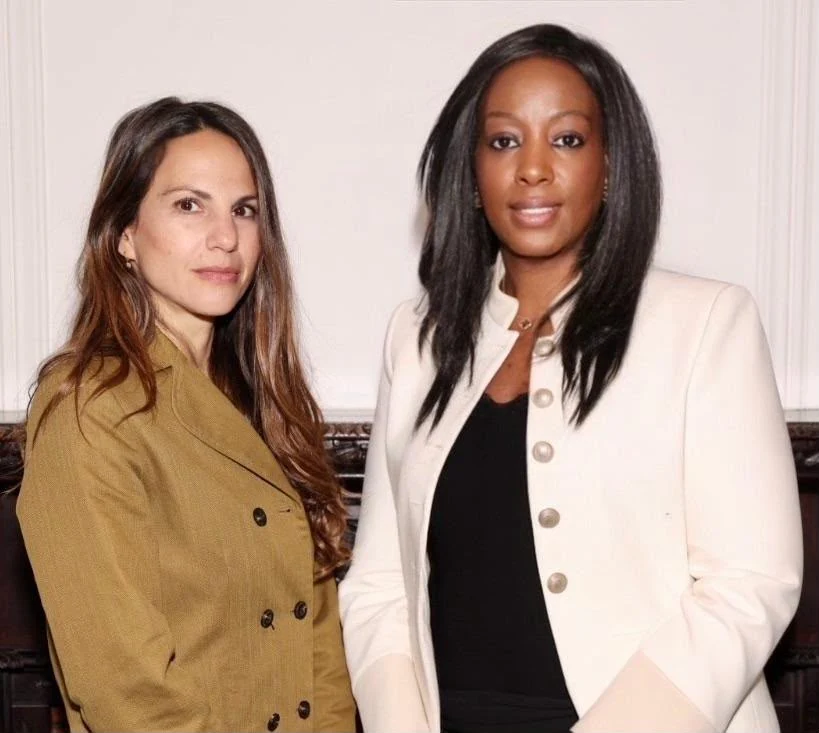
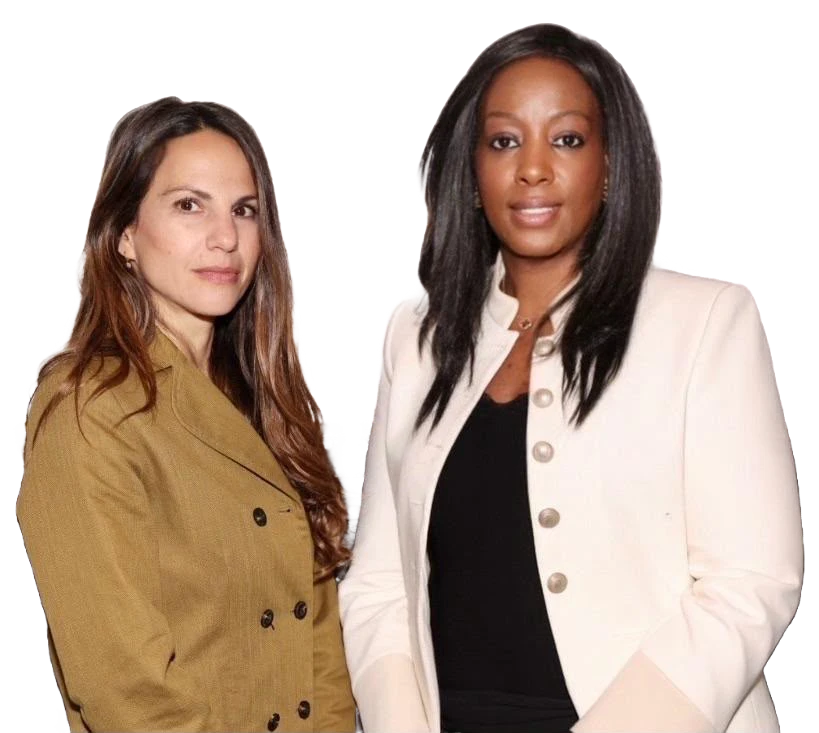
Photo de Surin et Griguer : retour à la photo détourée, sans cadre
Claude-Session: https://claude.ai/code/session_01JZsRoFKVJ64ibxqaRJfyVs

diff --git a/site/index.html b/site/index.html
@@ -643,7 +643,7 @@ footer { border-radius:36px 36px 0 0; margin-top:24px; }
     return h("li", { class: "has-detail" }, [btn, det]);
   }
   var PHOTOS = {
-    surin: { src: "img/surin-griguer.webp", w: 819, h: 733, framed: true },
+    surin: { src: "img/surin-griguer.webp", w: 819, h: 733 },
     saada: { src: "img/saada-lagrue.webp", w: 1000, h: 835 },
     bouyssou: { src: "img/bouyssou-pascarel.webp", w: 723, h: 900, maxw: 290 },
     fabiani: { src: "img/fabiani-naquet.webp", w: 1000, h: 760 }
@@ -1408,8 +1408,6 @@ footer { border-radius:36px 36px 0 0; margin-top:24px; }
   .cswitch { position: sticky; top: 0; z-index: 40; display: flex; gap: 10px; justify-content: center; padding: 12px 10px; margin: -24px 0 16px; border-radius: 0 0 22px 22px; background: rgba(241,239,245,.95); backdrop-filter: blur(10px); border-bottom: 1px solid var(--line); }
   .cswitch a { width: 56px; height: 56px; border-radius: 50%; display: grid; place-items: center; font-weight: 700; font-size: 17px; letter-spacing: .02em; color: #fff; text-decoration: none; opacity: .55; border: 3px solid transparent; }
   .cswitch a.on { opacity: 1; border-color: var(--ink); }
-  /* photo cadrée : le cadre ne s'applique qu'au bureau */
-  .cand-head.has-photo.framed .ch-photo { border: 0 !important; box-shadow: none !important; }
   /* pied de page compact */
   footer { padding-block: 16px 18px; margin-top: 8px; border-radius: 22px 22px 0 0; font-size: 12px; line-height: 1.45; }
 }
